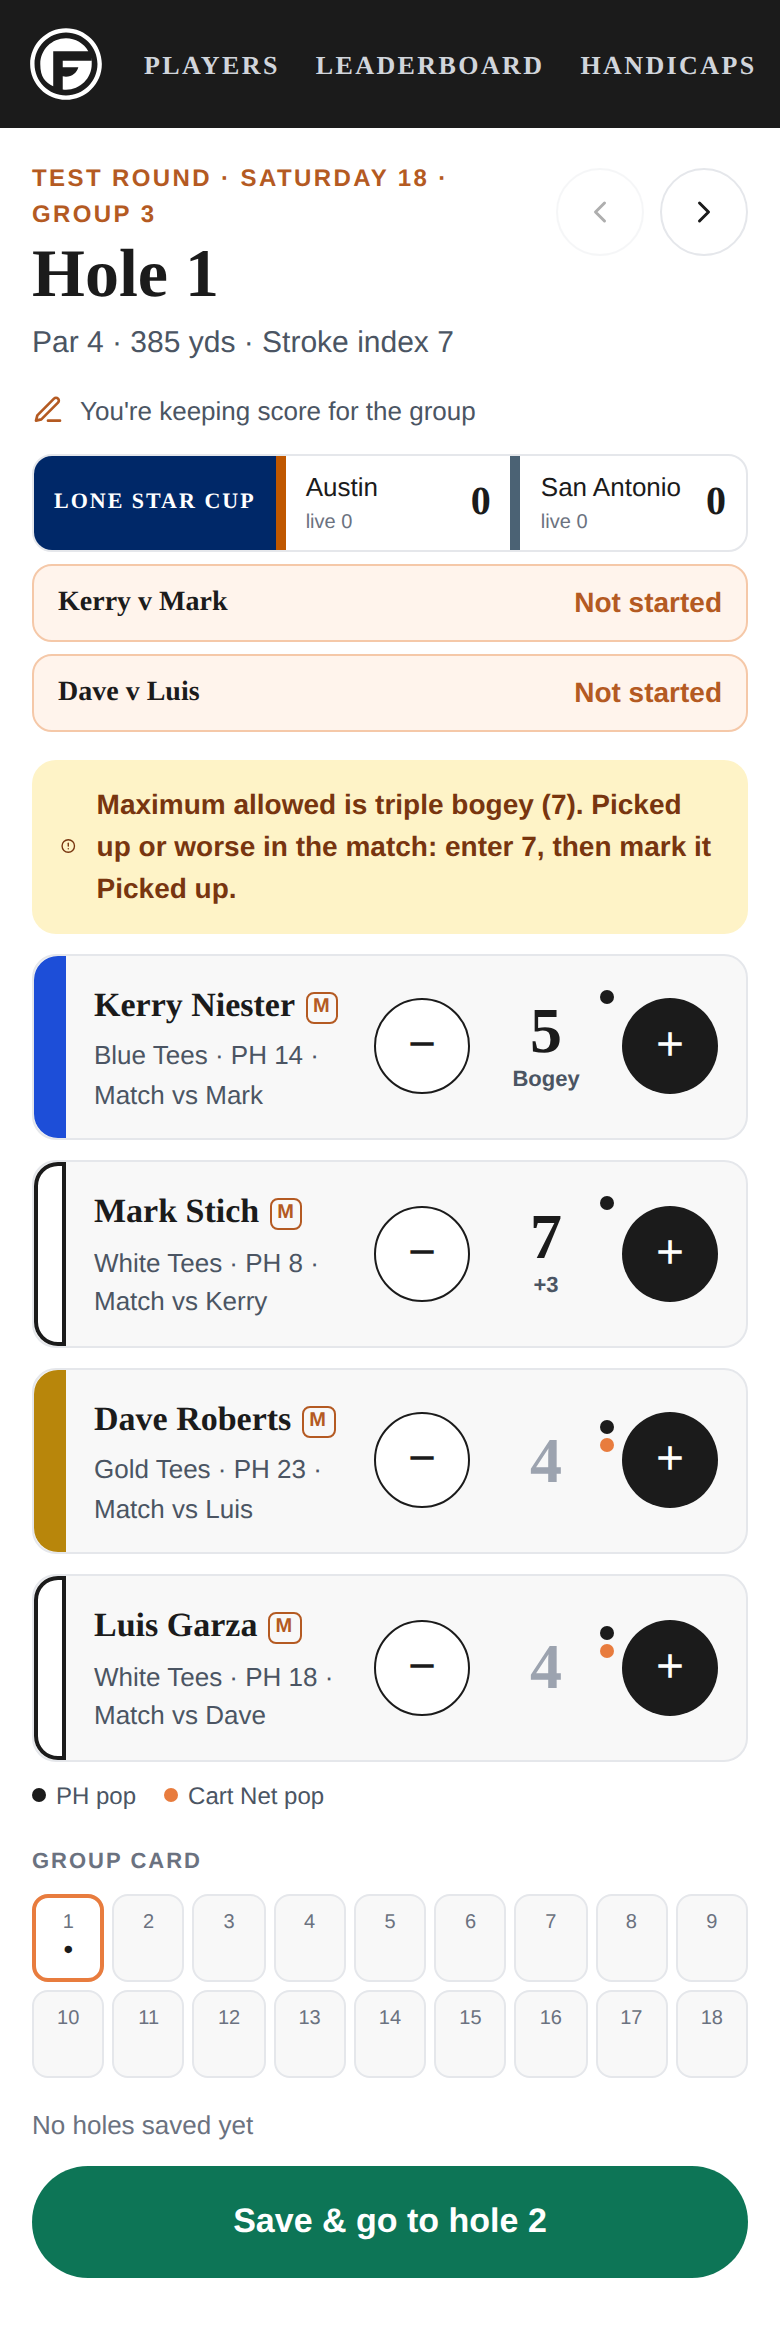
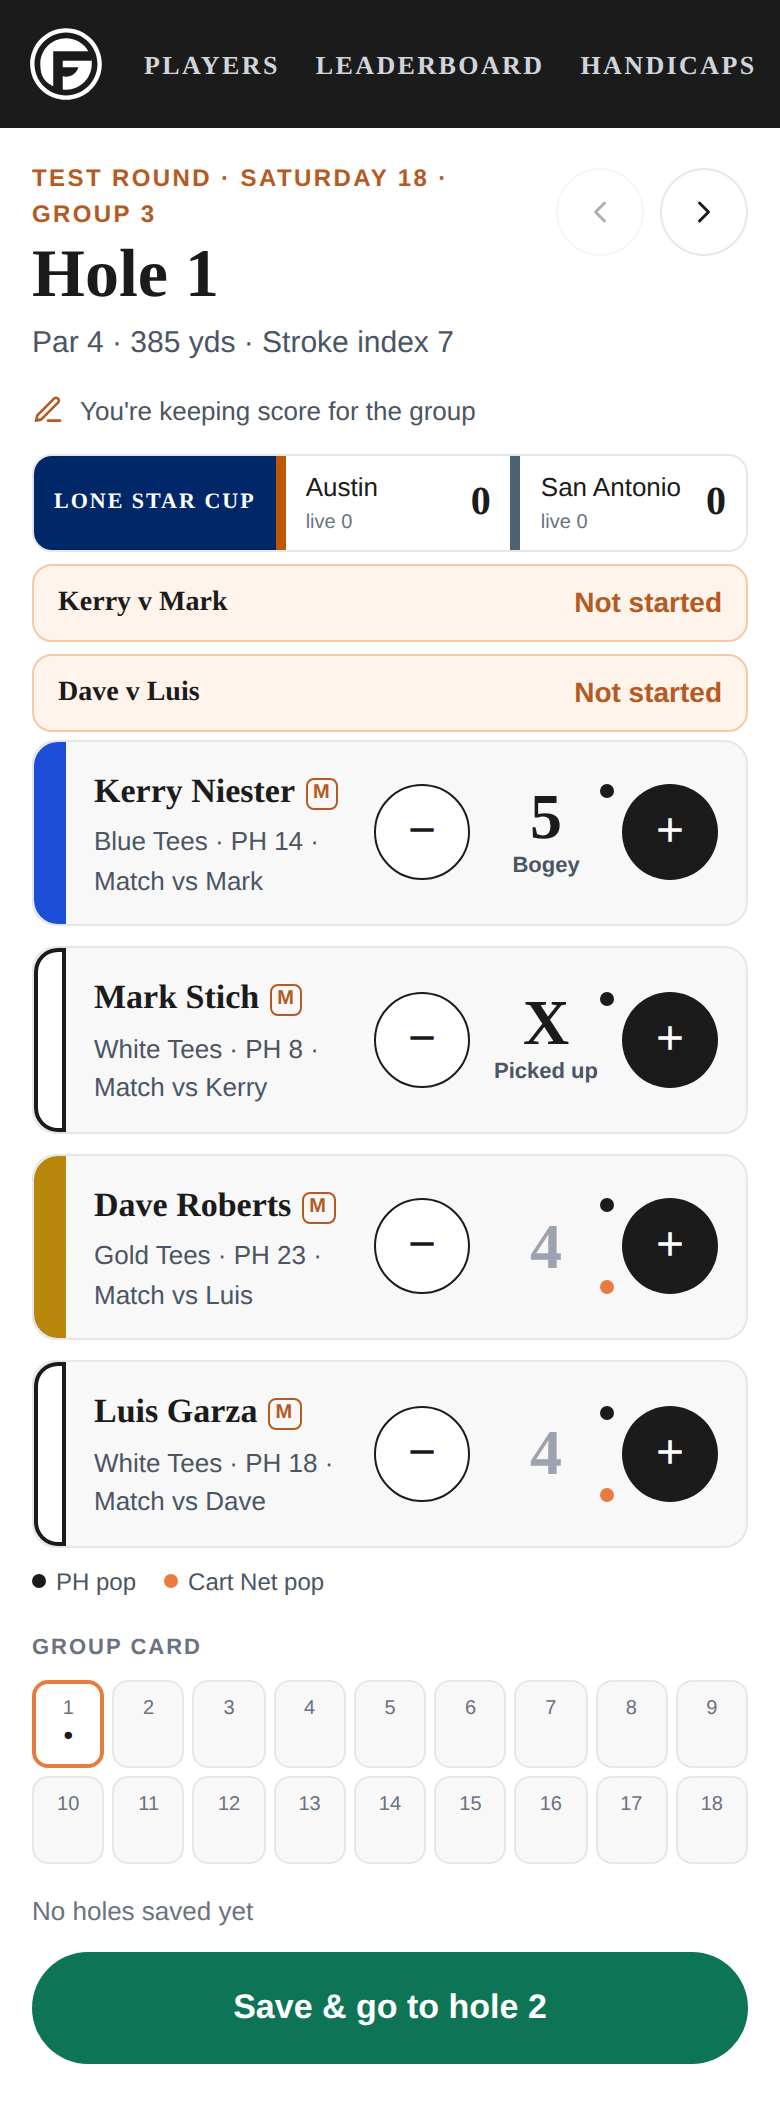
Score entry: pop dots align with the + button (v2.500.1)
Claude-Session: https://claude.ai/code/session_01PeGTnLppc6bpJPrSmUWsVP

diff --git a/transaction-tracker/templates/score_entry.html b/transaction-tracker/templates/score_entry.html
@@ -85,8 +85,14 @@
            Net pops ... Don't want it in text"). One dot per stroke: black is
            the playing handicap at 100%, orange is the team game's. */
         .se-score { position: relative; }
-        .se-pops { position: absolute; top: -4px; right: -8px; display: flex; flex-direction: column; gap: 2px; }
-        .se-pops.cell { top: 2px; right: 2px; flex-direction: row; gap: 1px; }
+        /* Kerry 2026-09-26: black PH pops align with the TOP of the + circle,
+           orange team pops with its BOTTOM. The column is the +'s own 48px,
+           centred the same way, so the two groups sit on its edges. */
+        .se-pops { position: absolute; top: 50%; height: 48px; transform: translateY(-50%); right: -8px;
+                   display: flex; flex-direction: column; justify-content: space-between; }
+        .se-pops .g { display: flex; flex-direction: column; gap: 2px; }
+        .se-pops.cell { top: 2px; right: 2px; height: auto; transform: none; flex-direction: row; gap: 1px; }
+        .se-pops.cell .g { flex-direction: row; gap: 1px; }
         .se-pop { width: 7px; height: 7px; border-radius: 50%; background: #1B1B1B; display: block; }
         .se-pop.t { background: #E87C3E; }
         .se-pops.cell .se-pop { width: 5px; height: 5px; }
@@ -393,7 +399,7 @@
             if (!cids || cids.length !== 1) return "";
             const p = popsOf(cids[0], n);
             if (!p.k && !p.t) return "";
-            const d = "<i class=\"se-pop\"></i>".repeat(p.k) + "<i class=\"se-pop t\"></i>".repeat(p.t);
+            const d = `<span class="g">${"<i class=\"se-pop\"></i>".repeat(p.k)}</span><span class="g">${"<i class=\"se-pop t\"></i>".repeat(p.t)}</span>`;
             return `<span class="se-pops${small ? " cell" : ""}" aria-hidden="true">${d}</span>`;
         }
         function popLabel(cids, n) {

diff --git a/transaction-tracker/static/js/version.js b/transaction-tracker/static/js/version.js
@@ -1,5 +1,13 @@
-window.TGF_VERSION = "2.500.0";
+window.TGF_VERSION = "2.500.1";
 window.TGF_CHANGELOG = [
+  {
+    version: "2.500.1",
+    date: "2026-09-26",
+    title: "Score entry: pop dots line up with the + button",
+    changes: [
+      "Kerry, 2026-09-26: 'Move the orange team/cart pops down to align with bottom of + circle and the top black PH pops to align with top of black + circle.' The dot column is now the + button's own 48 px, centred the same way: black PH dots stack down from its top edge, orange Team/Cart Net dots stack up from its bottom edge."
+    ]
+  },
   {
     version: "2.500.0",
     date: "2026-09-26",
